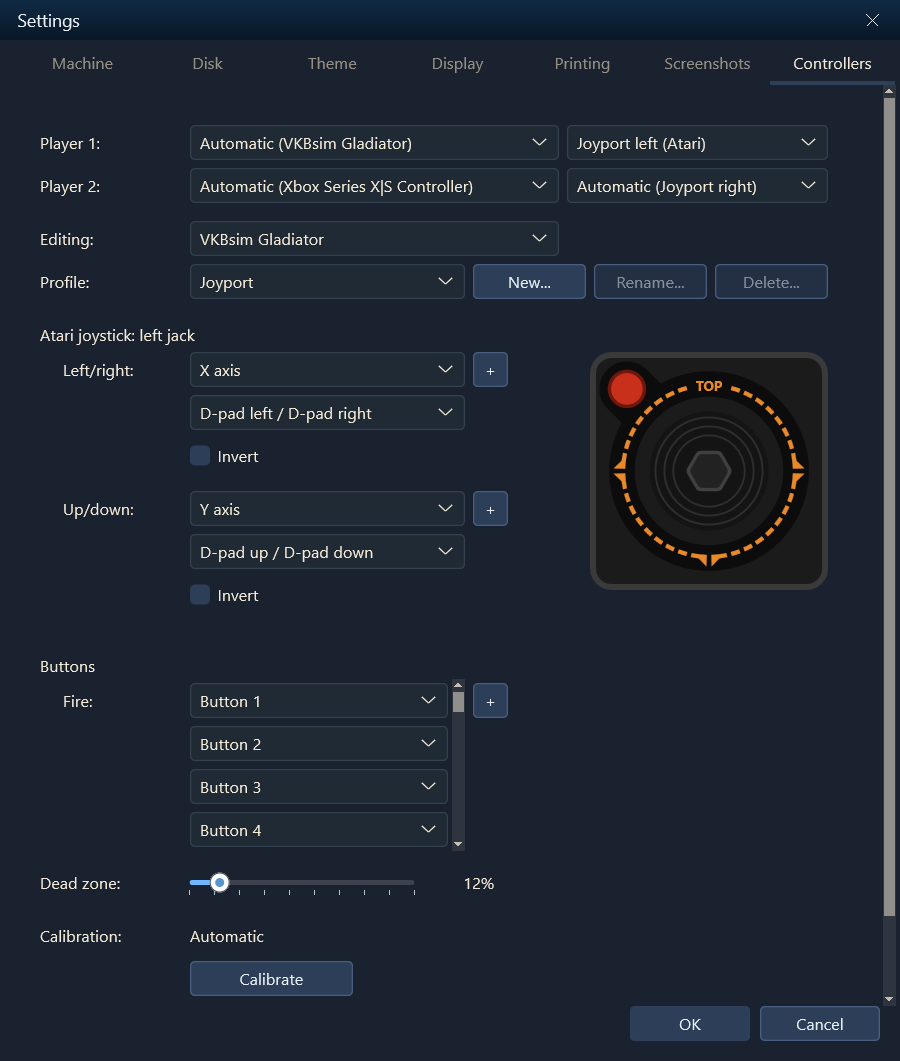
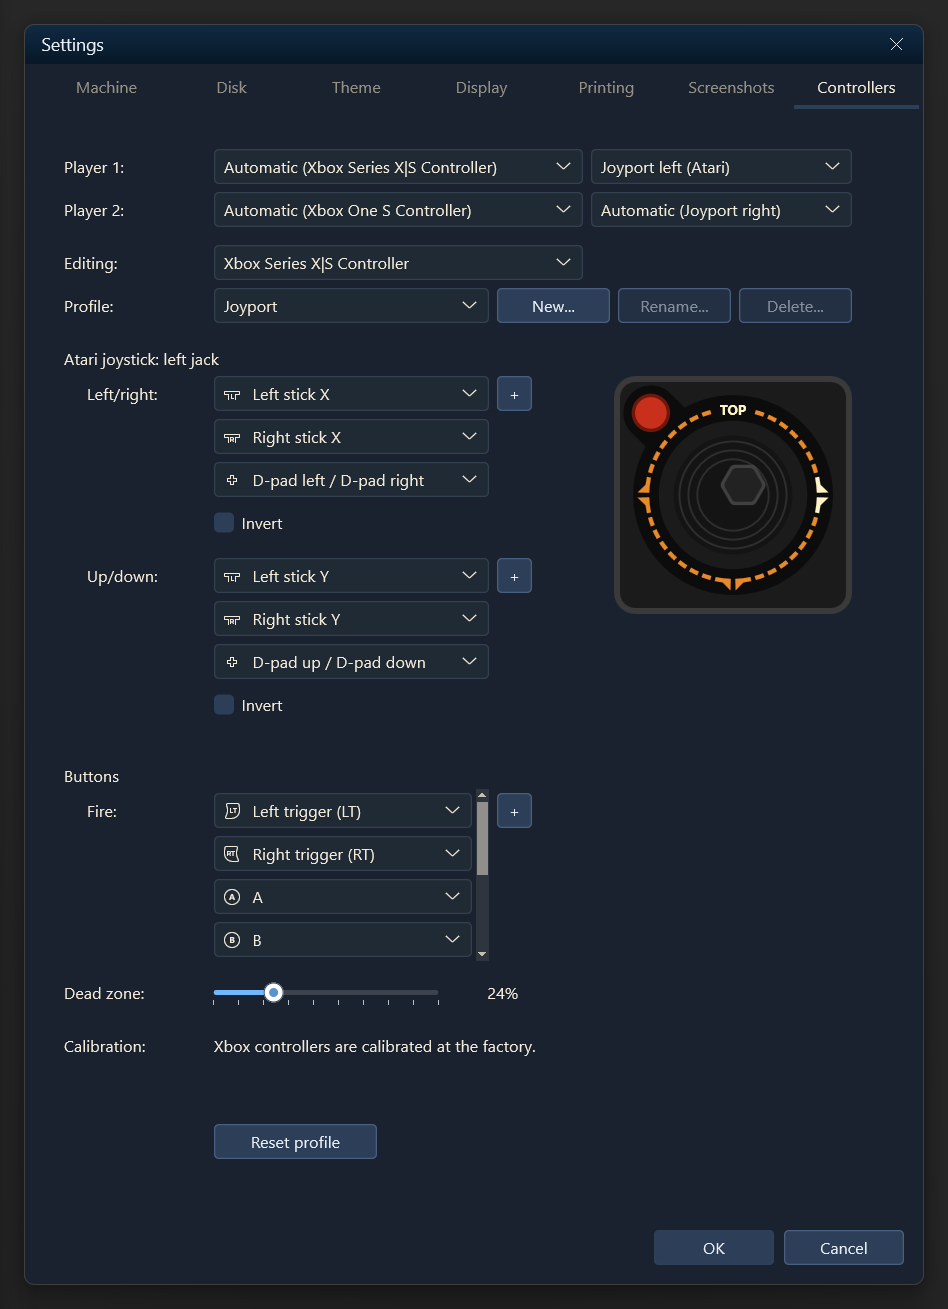
docs(readme): Retake the 1.29 screenshots with live input
The two-player, Joyport and picker shots are retaken with both Xbox
controllers assigned by Automatic and their sticks moved, and the picker
shows the singular section headings. A Two paddles shot replaces the
one-player shot, which showed nothing new in 1.29.

Refs #156

diff --git a/README.md b/README.md
@@ -99,14 +99,14 @@ surprise or two there too.
 
 <table align="center" width="100%">
 <tr>
-  <td valign="top" width="50%" align="center"><img src="Assets/controllers-1-29-single.png" alt="The Controllers page in Settings for one player: Player 1 on a VKBsim Gladiator in Joystick mode and Player 2 disabled, with the stick's X and Y axes on PDL0 and PDL1, three buttons on PB0 to PB2, a live stick readout, the dead zone slider and automatic calibration" width="100%" /><br /><sub>One player</sub></td>
-  <td valign="top" width="50%" align="center"><img src="Assets/controllers-1-29-multiplayer.png" alt="The Controllers page in Settings for two players: an Xbox One S controller for Player 1 and an Xbox Series X|S controller for Player 2, whose mode follows Player 1 as Automatic (joystick), with the first player's left stick on PDL0 and PDL1 and the A and B buttons on PB0 and PB1" width="100%" /><br /><sub>Two players</sub></td>
+  <td valign="top" width="50%" align="center"><img src="Assets/controllers-1-29-twopaddles.png" alt="The Controllers page in Settings with one Xbox One S controller in Two paddles mode: its left stick X on PDL0 and right stick X on PDL1, each with a Paddle speed slider at 768/s and a live bar beside it at 206 and 76, with the A and B buttons on PB0 and PB1" width="100%" /><br /><sub>Two paddles on one controller</sub></td>
+  <td valign="top" width="50%" align="center"><img src="Assets/controllers-1-29-multiplayer.png" alt="The Controllers page in Settings for two players, both on Automatic: the Xbox Series X|S controller for Player 1 in Joystick mode and the Xbox One S controller for Player 2, whose mode follows Player 1 as Automatic (joystick), with the Series X|S left stick on PDL0 and PDL1 and its live stick readout off center" width="100%" /><br /><sub>Two players, assigned automatically</sub></td>
 </tr>
 </table>
 
-<p align="center"><img src="Assets/controllers-1-29-joyport.png" alt="The Controllers page in Settings with the Sirius Joyport on: Player 1 on the Joyport's left jack and Player 2 on Automatic, which resolves to the right jack, with the stick's axes and the D-pad on left/right and up/down and a list of buttons on fire, beside a top-down drawing of an Atari joystick" width="540" /></p>
+<p align="center"><img src="Assets/controllers-1-29-joyport.png" alt="The Controllers page in Settings with the Sirius Joyport: Player 1 on Automatic with the Xbox Series X|S controller on the left jack, and Player 2 on Automatic with the Xbox One S controller, which resolves to the right jack. The left stick, right stick and D-pad all drive left/right and up/down, a scrolling list of buttons and triggers fires, and a top-down drawing of an Atari joystick lights its right marker" width="540" /></p>
 
-<p align="center"><img src="Assets/controllers-1-29-profiles.png" alt="The toolbar's controller picker on the Apple //e desk scene with Lode Runner running: a submenu for each player, and Player 1's submenu open under three headings, Controllers with Automatic, the Xbox One S controller checked, the Xbox Series X|S controller, the VKBsim Gladiator and keys as a joystick, Modes with Joystick checked above the two Joyport jacks, Paddle and Two paddles, and Profiles with Default checked and New... at the bottom" width="700" /></p>
+<p align="center"><img src="Assets/controllers-1-29-profiles.png" alt="The toolbar's controller picker on the Apple //e desk scene with Lode Runner running: a submenu for each player, and Player 1's submenu open under three headings, Controller with Automatic, the Xbox Series X|S controller, the Xbox One S controller checked and keys as a joystick, Mode with Joystick checked above the two Joyport jacks, Paddle and Two paddles, and Profile with Default checked and New... at the bottom" width="700" /></p>
 
 <a id="v1-26"></a>
 ### [2026-09-19 · 1.26] A real installer
